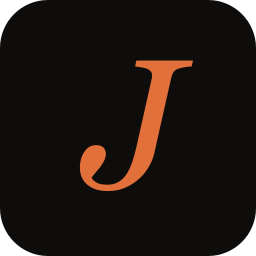
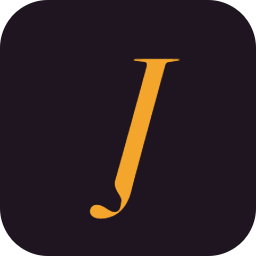
Nueva paleta: crema, verde abeto y rojo tomate (claro); ciruela, titanio y ámbar (oscuro)
- Tokens de color de ambos temas, con contraste AA en texto
- theme-color, manifest, favicon e íconos con la paleta oscura
- Imagen de vista previa regenerada con los nuevos colores

Changed region(s): [[0.3125, 0.2188, 0.75, 0.875]]

diff --git a/src/index.css b/src/index.css
@@ -7,11 +7,12 @@
 
 @layer base {
   :root {
-    --bg: #EFEBE4; --surface: #E5E0D7; --surface-2: #D9D3C8; --line: #CBC4B8;
-    --text: #151311; --text-muted: #5E5850;
-    --accent: #A8431A; --accent-soft: rgba(168, 67, 26, .10); --cool: #3346C8;
-    --ok: #4F7A3A; --error: #B33A2E;
-    --sombra-montaje: 0 40px 80px -24px rgba(21, 19, 17, .28);
+    /* Claro: crema clásica 60 % · verde abeto 30 % · rojo tomate 10 % */
+    --bg: #F4ECDC; --surface: #ECE1CC; --surface-2: #E2D4BA; --line: #D2C3A6;
+    --text: #1D3A2E; --text-muted: #435D4F;
+    --accent: #BC3820; --accent-soft: rgba(188, 56, 32, .10); --cool: #2D5B88;
+    --ok: #2E6B45; --error: #9C2416;
+    --sombra-montaje: 0 40px 80px -24px rgba(29, 58, 46, .26);
     --grano-opacidad: .02;
     color-scheme: light;
 
@@ -47,11 +48,12 @@
     --avatar-alto: 38vh;
   }
   .dark {
-    --bg: #0E0D0C; --surface: #181614; --surface-2: #221F1C; --line: #2E2A26;
-    --text: #EFEBE4; --text-muted: #9A938A;
-    --accent: #E2703A; --accent-soft: rgba(226, 112, 58, .12); --cool: #7C8CF2;
-    --ok: #8FB07A; --error: #E0675A;
-    --sombra-montaje: 0 40px 80px -20px rgba(0, 0, 0, .5);
+    /* Oscuro: ciruela eclipse 60 % · seda titanio 30 % · destello ámbar 10 % */
+    --bg: #1E1520; --surface: #281C2B; --surface-2: #332539; --line: #44344A;
+    --text: #E3E0DA; --text-muted: #ADA4AF;
+    --accent: #F4A52C; --accent-soft: rgba(244, 165, 44, .12); --cool: #A9BCEB;
+    --ok: #9CC79A; --error: #F2786A;
+    --sombra-montaje: 0 40px 80px -20px rgba(8, 4, 10, .55);
     --grano-opacidad: .03;
     color-scheme: dark;
   }

diff --git a/index.html b/index.html
@@ -53,8 +53,8 @@
     <meta name="twitter:image:alt" content="Jhorman Cortes, desarrollador full stack: «Construyo software que se sostiene»." />
 
     <!-- Apariencia e íconos -->
-    <meta name="theme-color" content="#0E0D0C" media="(prefers-color-scheme: dark)" />
-    <meta name="theme-color" content="#EFEBE4" media="(prefers-color-scheme: light)" />
+    <meta name="theme-color" content="#1E1520" media="(prefers-color-scheme: dark)" />
+    <meta name="theme-color" content="#F4ECDC" media="(prefers-color-scheme: light)" />
     <meta name="color-scheme" content="dark light" />
     <meta name="application-name" content="Jhorman Cortes" />
     <meta name="apple-mobile-web-app-title" content="Jhorman Cortes" />

diff --git a/src/components/NavBar.jsx b/src/components/NavBar.jsx
@@ -34,7 +34,7 @@ export default function Navbar() {
 
   useEffect(() => {
     const meta = document.querySelector('meta[name="theme-color"]');
-    if (meta) meta.setAttribute('content', theme === 'dark' ? '#0E0D0C' : '#EFEBE4');
+    if (meta) meta.setAttribute('content', theme === 'dark' ? '#1E1520' : '#F4ECDC');
   }, [theme]);
 
   const cambiarTema = () => {
